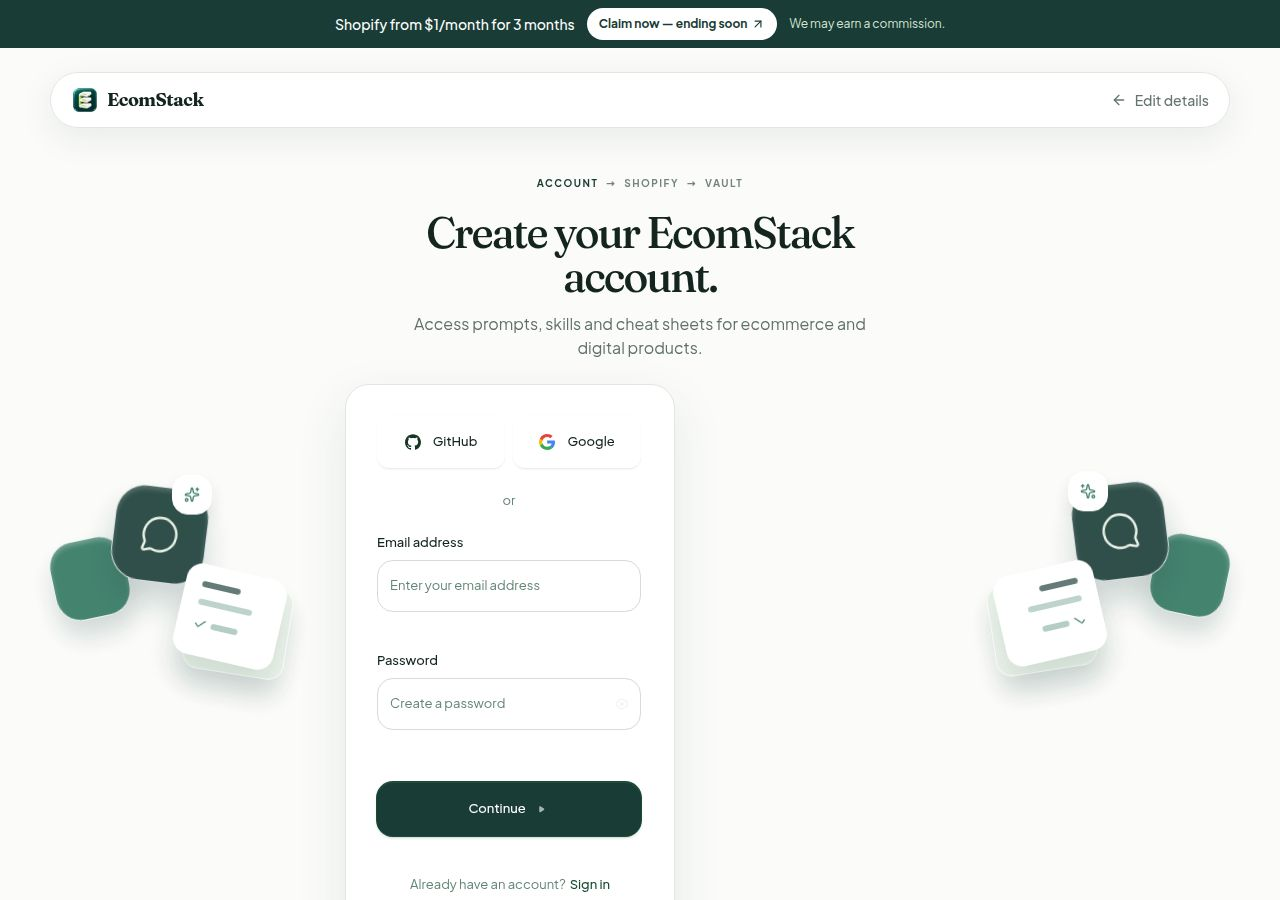
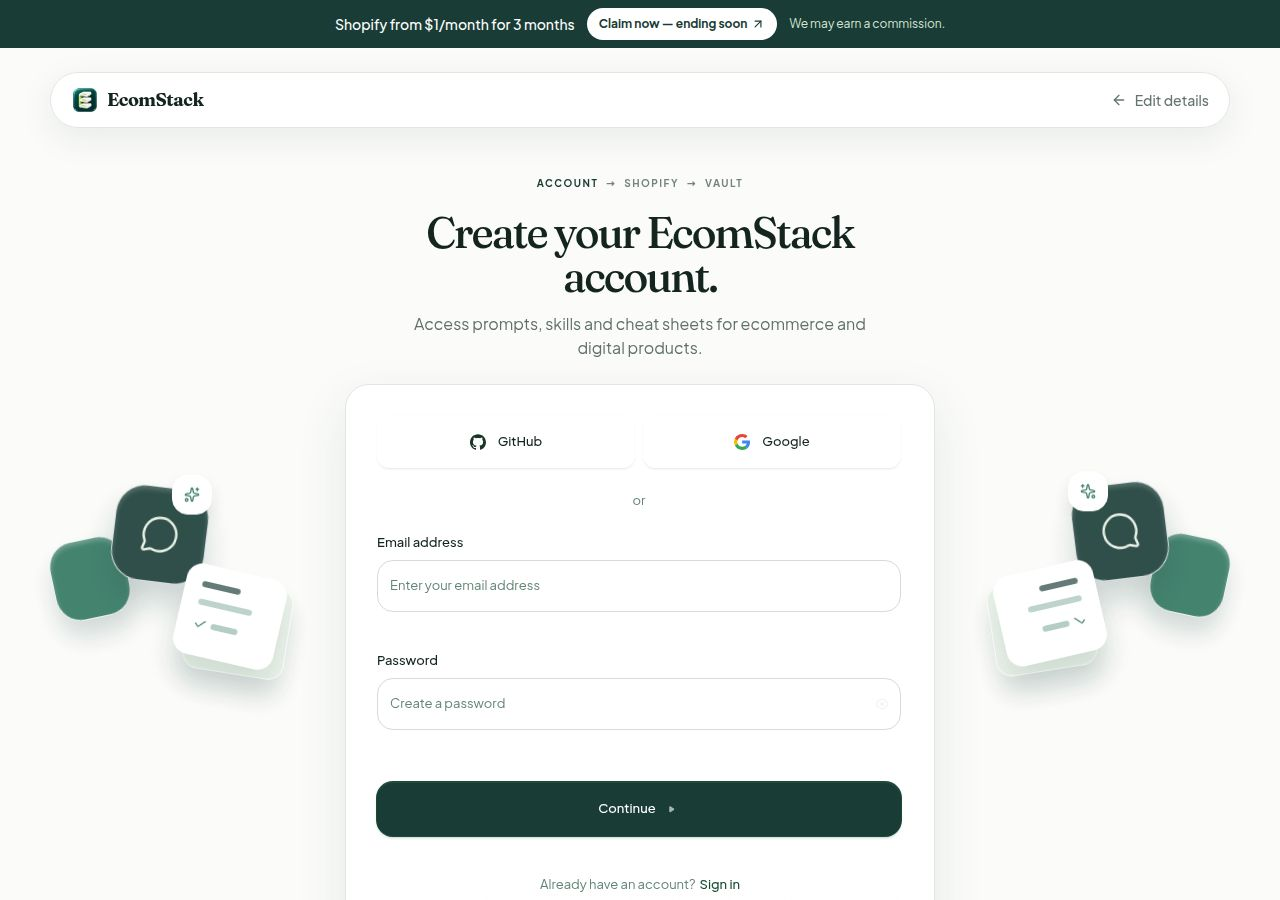
Update signup page and refresh screenshots
Replit-Commit-Author: Agent

diff --git a/artifacts/ecomstack/src/pages/sign-up-auth.tsx b/artifacts/ecomstack/src/pages/sign-up-auth.tsx
@@ -69,7 +69,7 @@ export default function SignUpAuthPage() {
                 fallbackRedirectUrl={`${basePath}/unlock`}
                 appearance={{
                   elements: {
-                    rootBox: "w-full",
+                    rootBox: "!flex !w-full !justify-center",
                     cardBox: "!w-full !max-w-[590px] !overflow-hidden !rounded-[24px] !border !border-[#dfe7df] !bg-white !shadow-[0_18px_50px_rgba(25,60,54,0.10)]",
                     card: "!w-full !rounded-none !border-0 !bg-transparent !p-8 !shadow-none max-sm:!p-5",
                     header: "!hidden",
